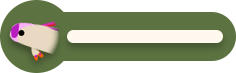
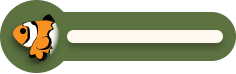
P2: updated Nene's look and image for Nene's food tracker

diff --git a/projects/project2/js/fishies/Nene.js b/projects/project2/js/fishies/Nene.js
@@ -3,7 +3,7 @@ class Nene extends Fish {
     super(fishImg1, fishImg2)
     // size information
     this.length = 107;
-    this.width = 63;
+    this.width = 57;
     // movement information
     this.speed = {
       casualSwimming: 5,
